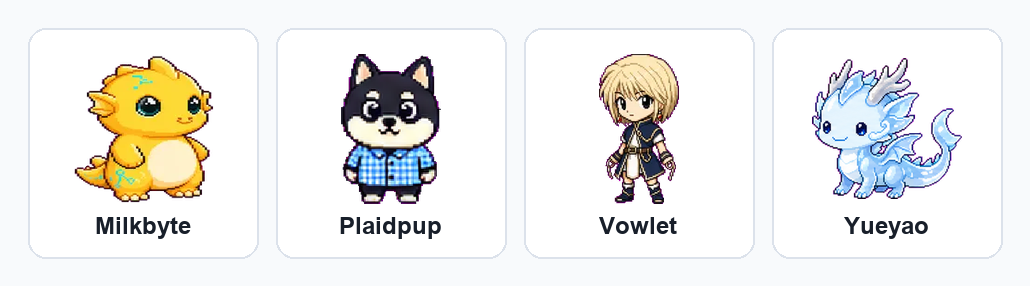
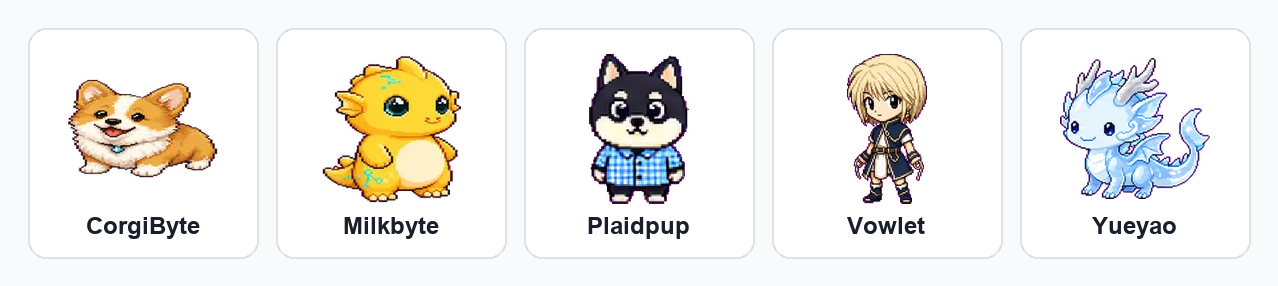
Add CorgiByte Codex pet

diff --git a/README.md b/README.md
@@ -3,7 +3,7 @@
 > A growing collection of custom pets for Codex Desktop.
 
 [![License: MIT](https://img.shields.io/badge/License-MIT-green.svg)](LICENSE)
-[![Pets](https://img.shields.io/badge/pets-4-blue.svg)](#pets)
+[![Pets](https://img.shields.io/badge/pets-5-blue.svg)](#pets)
 
 [中文说明](README_CN.md)
 
@@ -15,6 +15,7 @@ This gallery is generated from `pets/*/pet.json` and the first frame of each `sp
 
 | Pet | Description | Package |
 | --- | --- | --- |
+| CorgiByte | A cheerful short-legged corgi coding buddy with a tiny cyan spark charm. | [corgibyte.codex-pet.zip](packages/corgibyte.codex-pet.zip) |
 | Milkbyte | A warm yellow baby dragon with a cream belly and tiny cyan code-spark accents. | [milkbyte.codex-pet.zip](packages/milkbyte.codex-pet.zip) |
 | Plaidpup | A black shiba pup in a blue plaid shirt with coherent playful poses. | [plaidpup.codex-pet.zip](packages/plaidpup.codex-pet.zip) |
 | Vowlet | A quiet blond chain guardian with a focused, watchful presence. | [vowlet.codex-pet.zip](packages/vowlet.codex-pet.zip) |
@@ -23,6 +24,14 @@ This gallery is generated from `pets/*/pet.json` and the first frame of each `sp
 Detailed animation contact sheets live under `assets/<pet-id>/`.
 
 ## Quick Install
+
+Install CorgiByte from the repository package:
+
+```bash
+curl -L "https://raw.githubusercontent.com/mileson/codex-pets/main/packages/corgibyte.codex-pet.zip" -o "/tmp/corgibyte.codex-pet.zip" \
+  && mkdir -p "$HOME/.codex/pets/corgibyte" \
+  && unzip -o "/tmp/corgibyte.codex-pet.zip" -d "$HOME/.codex/pets/corgibyte"
+```
 
 Install Milkbyte from the repository package:
 
@@ -99,6 +108,8 @@ flowchart LR
 codex-pets/
   assets/
     pet-gallery.png
+    corgibyte/
+      contact-sheet.png
     milkbyte/
       contact-sheet.png
     yueyao/
@@ -111,11 +122,15 @@ codex-pets/
     generate_pet_gallery.py
   requirements.txt
   packages/
+    corgibyte.codex-pet.zip
     milkbyte.codex-pet.zip
     yueyao.codex-pet.zip
     vowlet.codex-pet.zip
     plaidpup.codex-pet.zip
   pets/
+    corgibyte/
+      pet.json
+      spritesheet.webp
     milkbyte/
       pet.json
       spritesheet.webp

diff --git a/README_CN.md b/README_CN.md
@@ -3,7 +3,7 @@
 > Codex Desktop 自定义宠物合集。
 
 [![License: MIT](https://img.shields.io/badge/License-MIT-green.svg)](LICENSE)
-[![Pets](https://img.shields.io/badge/pets-4-blue.svg)](#宠物)
+[![Pets](https://img.shields.io/badge/pets-5-blue.svg)](#宠物)
 
 [English](README.md)
 
@@ -15,6 +15,7 @@
 
 | 宠物 | 说明 | 安装包 |
 | --- | --- | --- |
+| CorgiByte（短腿柯基） | 开朗的短腿柯基代码伙伴，戴着小小青蓝火花挂坠。 | [corgibyte.codex-pet.zip](packages/corgibyte.codex-pet.zip) |
 | Milkbyte（奶黄小龙） | 温暖的黄色奶龙小伙伴，奶油色肚皮和青蓝小火花点缀，适合轻松陪伴工作。 | [milkbyte.codex-pet.zip](packages/milkbyte.codex-pet.zip) |
 | Plaidpup（蓝格衬衫黑柴） | 穿蓝格衬衫的黑柴小伙伴，动作更连贯、适合轻松陪伴。 | [plaidpup.codex-pet.zip](packages/plaidpup.codex-pet.zip) |
 | Vowlet（金发链环守护者） | 安静专注的金发链环守护者，适合陪你检查、思考和推进任务。 | [vowlet.codex-pet.zip](packages/vowlet.codex-pet.zip) |
@@ -23,6 +24,14 @@
 完整动画预览仍保留在 `assets/<pet-id>/` 目录下。
 
 ## 快速安装
+
+从仓库包下载并安装 CorgiByte：
+
+```bash
+curl -L "https://raw.githubusercontent.com/mileson/codex-pets/main/packages/corgibyte.codex-pet.zip" -o "/tmp/corgibyte.codex-pet.zip" \
+  && mkdir -p "$HOME/.codex/pets/corgibyte" \
+  && unzip -o "/tmp/corgibyte.codex-pet.zip" -d "$HOME/.codex/pets/corgibyte"
+```
 
 从仓库包下载并安装 Milkbyte：
 
@@ -99,6 +108,8 @@ flowchart LR
 codex-pets/
   assets/
     pet-gallery.png
+    corgibyte/
+      contact-sheet.png
     milkbyte/
       contact-sheet.png
     yueyao/
@@ -111,11 +122,15 @@ codex-pets/
     generate_pet_gallery.py
   requirements.txt
   packages/
+    corgibyte.codex-pet.zip
     milkbyte.codex-pet.zip
     yueyao.codex-pet.zip
     vowlet.codex-pet.zip
     plaidpup.codex-pet.zip
   pets/
+    corgibyte/
+      pet.json
+      spritesheet.webp
     milkbyte/
       pet.json
       spritesheet.webp